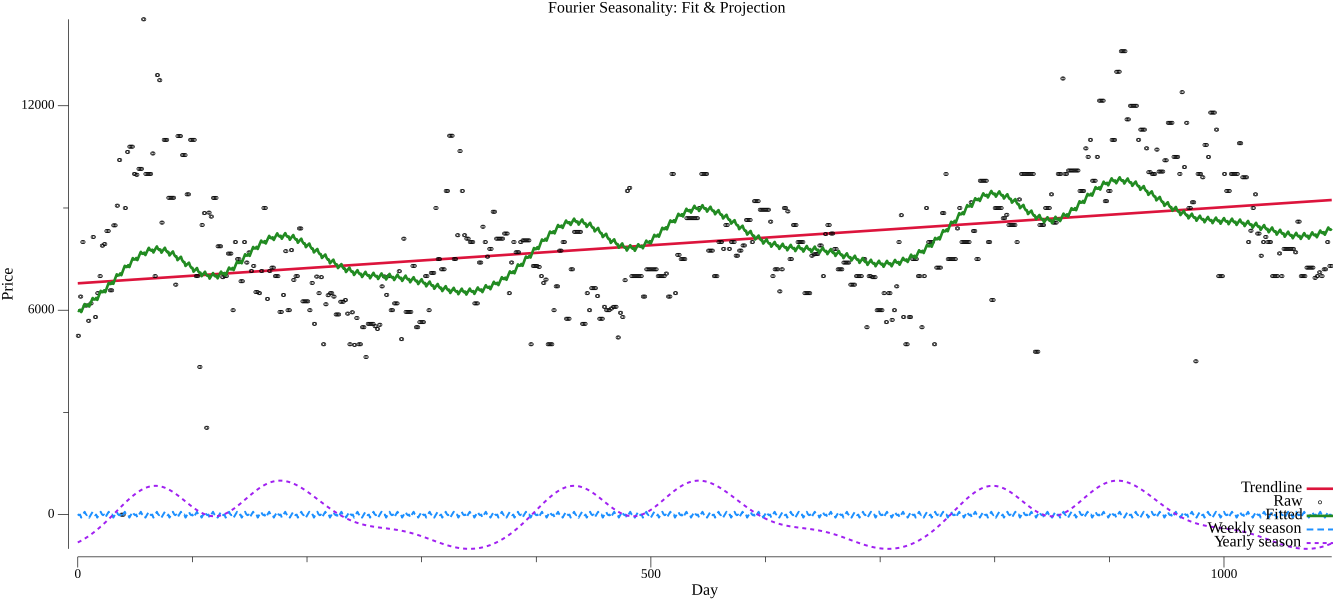
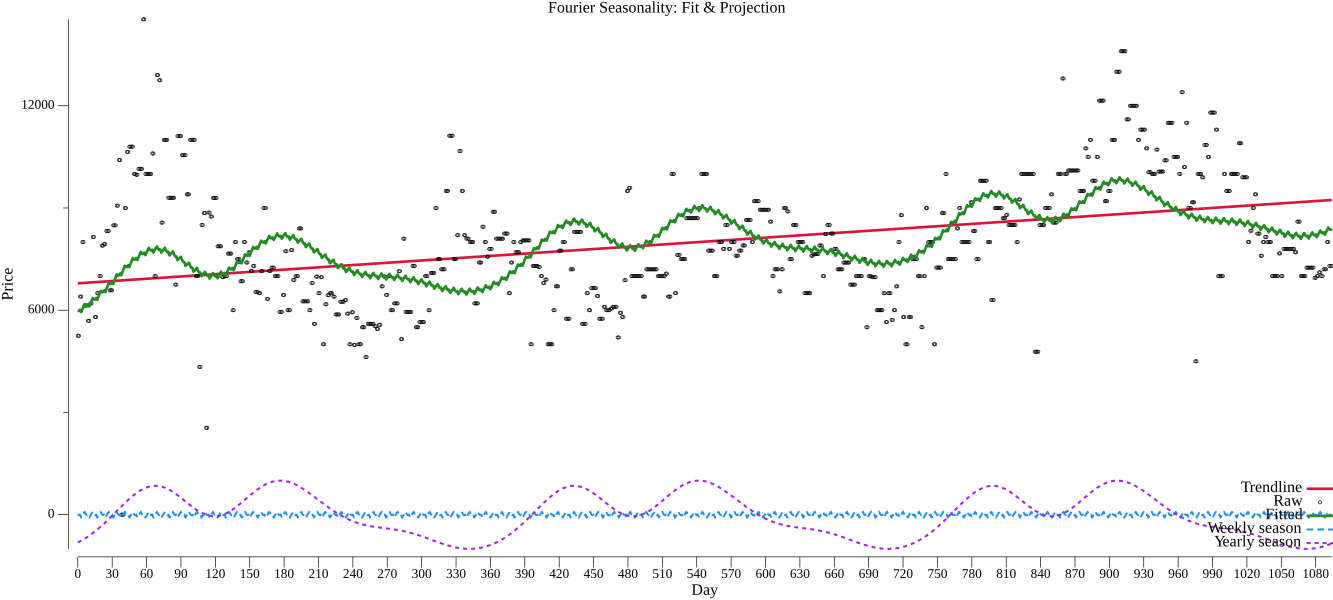
set x-axis ticks

Changed region(s): [[0.123, 0.93, 1.0, 0.96]]

diff --git a/analyzer.go b/analyzer.go
@@ -269,7 +269,7 @@ func projectPrice_FourierSTL(id string, daysBefore int64, daysFuture int64, logS
 			trendLine[t].Y = trendVal
 		}
 
-		//Construct Fourier seasonal component
+		//Make plotting data
 		bWeekly := beta[idx : idx+2*Kw]
 		idx += 2 * Kw
 		var bYearly []float64
@@ -333,6 +333,7 @@ func projectPrice_FourierSTL(id string, daysBefore int64, daysFuture int64, logS
 			}
 		}
 
+		//Create graphs
 		plt := plot.New()
 		plt.Title.Text = "Fourier Seasonality: Fit & Projection"
 		plt.X.Label.Text = "Day"
@@ -371,6 +372,14 @@ func projectPrice_FourierSTL(id string, daysBefore int64, daysFuture int64, logS
 			plt.Add(ly)
 			plt.Legend.Add("Yearly season", ly)
 		}
+
+		//Set x-axis ticks to month (30 day intervals)
+		var x_ticks []plot.Tick
+		for i := 0; i <= int(daysBefore); i += 30 {
+			x_ticks = append(x_ticks, plot.Tick{Value: float64(i), Label: fmt.Sprintf("%d", i)})
+		}
+		plt.X.Tick.Marker = plot.ConstantTicks(x_ticks)
+
 		if err := plt.Save(1000, 450, "data/fourier_stl_model.png"); err != nil {
 			fmt.Println("plot save png:", err)
 		}
